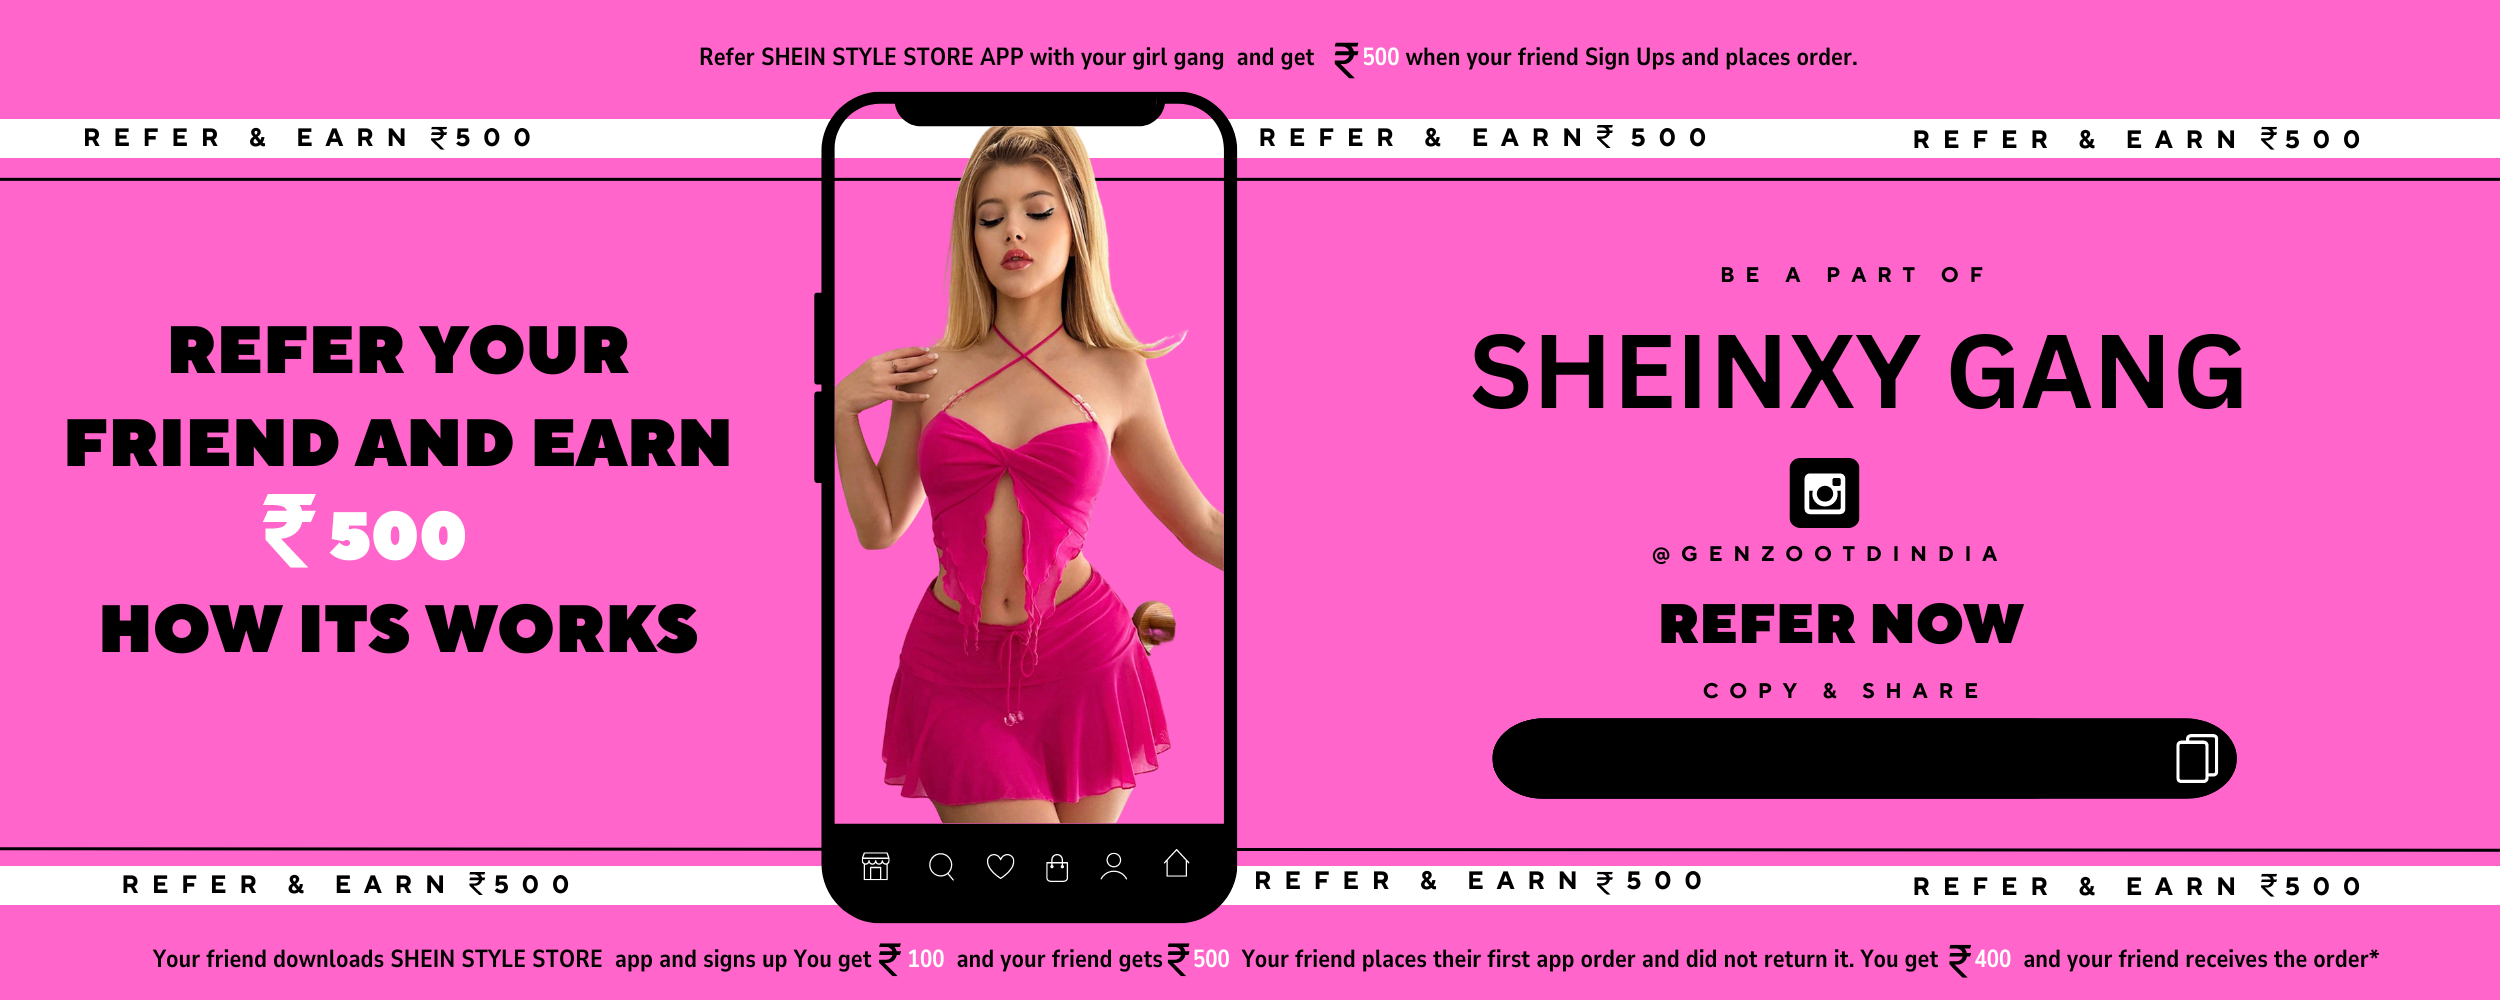
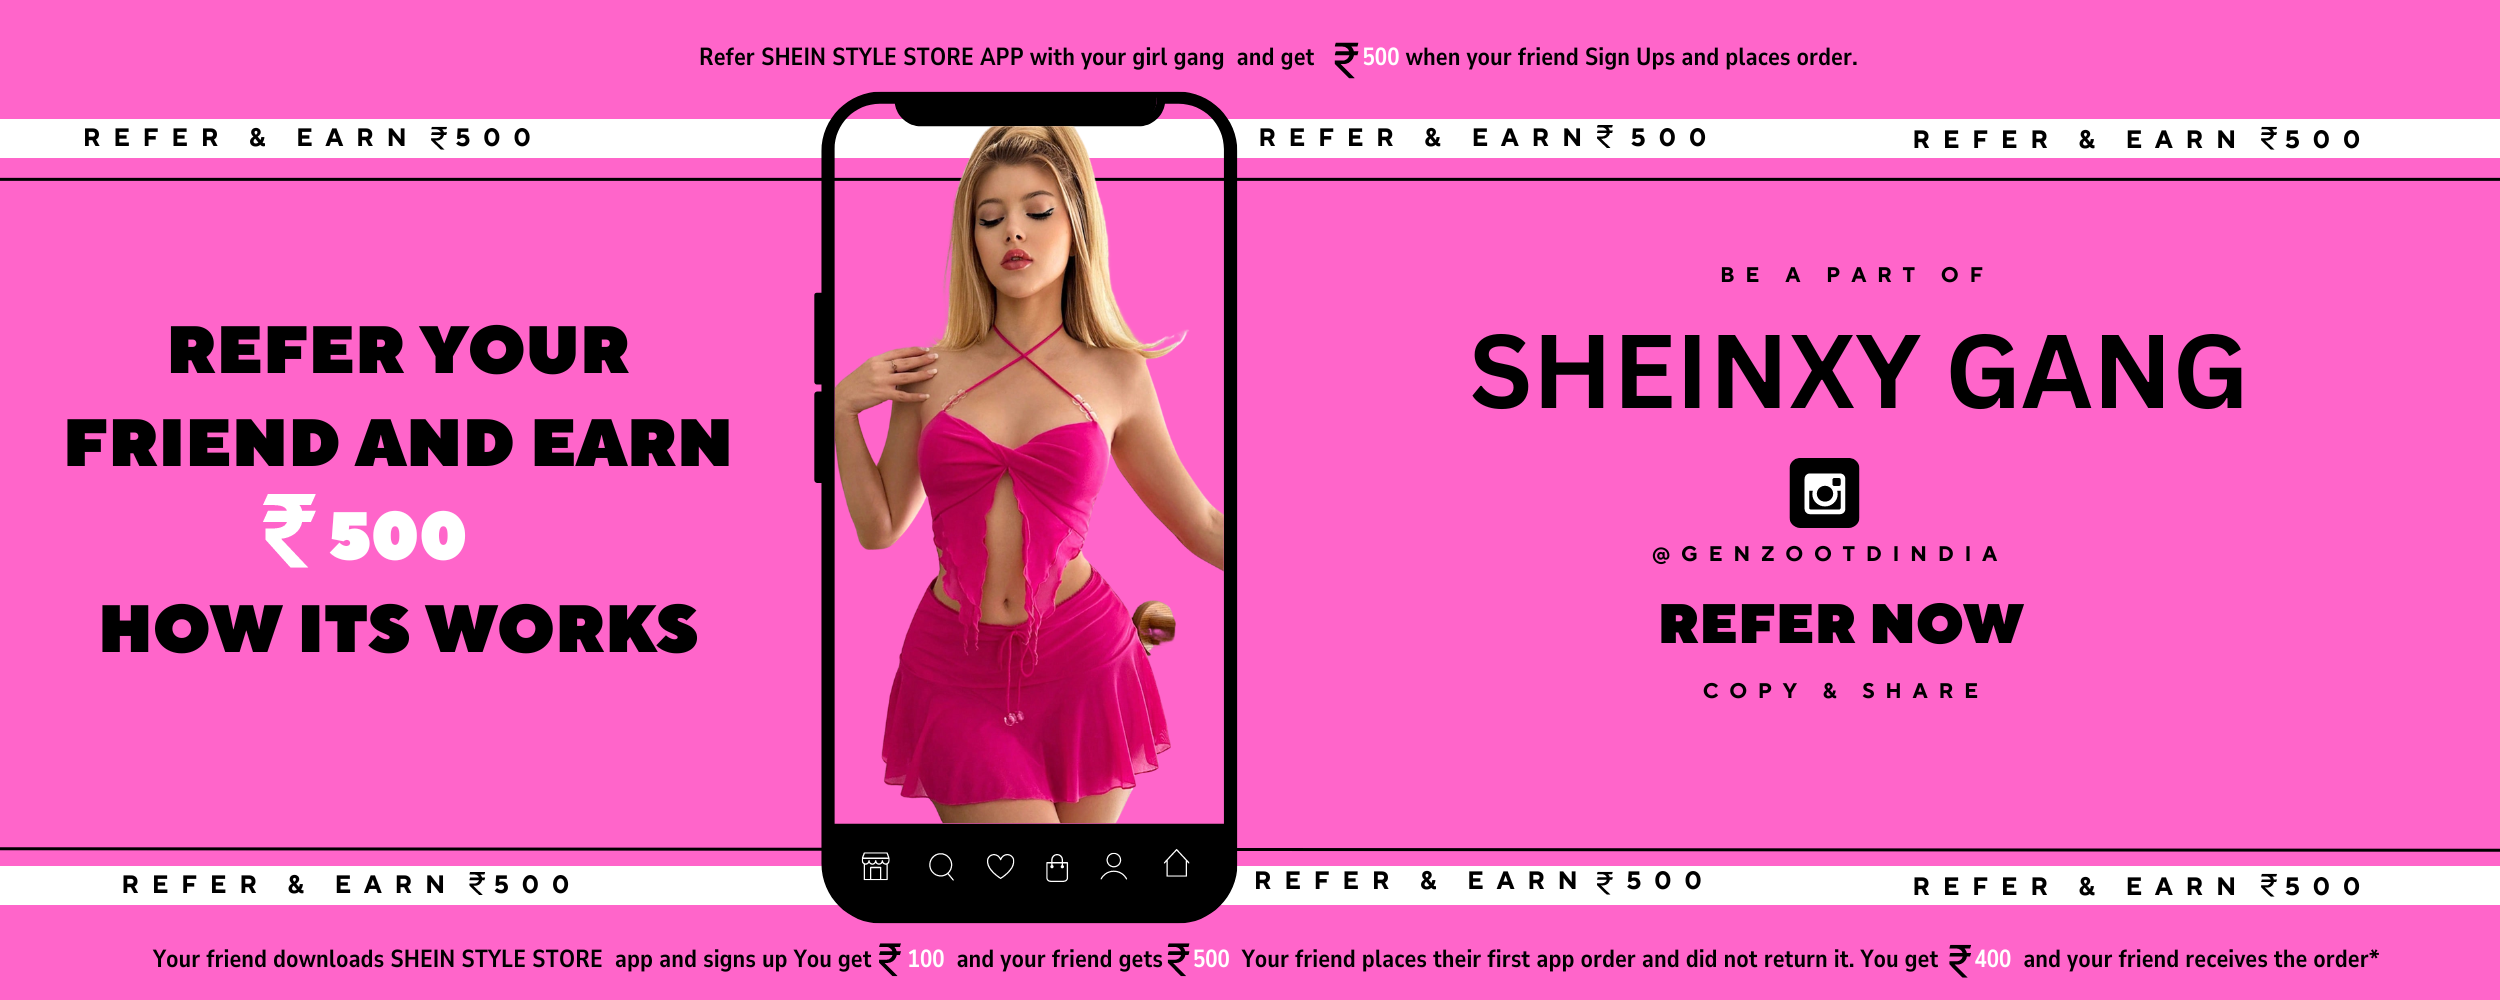
added the referral link

Changed region(s): [[0.5928, 0.713, 0.9048, 0.806]]

diff --git a/components/advertisement/Advertisement.tsx b/components/advertisement/Advertisement.tsx
@@ -1,24 +1,88 @@
 "use client";
-import React from "react";
+import React, { useState, useEffect } from "react";
 import Image from "next/image";
 // import advestisingImg from "../../images/Group 34289.png";
 import referandearn from "../../images/referandearn.png";
+import { ClipboardCheck, ClipboardCopy } from "lucide-react";
+import { getUserData } from "../../utils/databaseService";
+import { useQuery, useQueryClient } from "@tanstack/react-query";
+import { toast } from "react-toastify";
+import { getCookie } from "cookies-next";
+import { sha256 } from "js-sha256";
 
 const Advertisement = () => {
+  const [isClient, setIsClient] = useState(false);
+  const [inviteLink, setInviteLink] = useState(
+    "https://sheinidias.app.link/join/?ref=*****&"
+  );
+  // const websiteInviteLink = "https://sheinidias.app.link/join/?ref=*****&";
+  // let websiteInviteLink2 = "https://sheinidias.app.link/join/?ref=*****&";
+  const cookies = { value: getCookie("uid") };
+  const websiteInviteData = `Shein Style Store - Feeling empowered and confident in your own skin.\nShein Style Store Invite: ${inviteLink}`;
+  const [copied, setCopied] = useState(false);
+
+  useEffect(() => {
+    setIsClient(true);
+  }, []);
+
+  const { data: userData } = useQuery({
+    queryKey: ["userData"],
+    queryFn: () => getUserData(cookies),
+  });
+
+  useEffect(() => {
+    if (userData) {
+      const tstring = userData.id;
+      const sha = sha256(tstring).substring(0, 5);
+      const websiteInviteLink2 = `https://sheinidias.app.link/join/?ref=${sha}&`;
+      setInviteLink(websiteInviteLink2);
+    } else {
+      setInviteLink("https://sheinidias.app.link/join/?ref=*****&");
+    }
+  }, [userData]);
+
+  const InviteHandler = () => {
+    if (userData) {
+      setCopied(true);
+
+      navigator.clipboard.writeText(websiteInviteData);
+
+      setTimeout(() => {
+        setCopied(false);
+      }, 1500);
+      toast.success("Copied Successfully!");
+    } else {
+      toast.error("Login First!");
+    }
+  };
+
   return (
     <>
-      <div className=" w-full mt-0 px-[1.5%] relative">
-        {/* <div className="bottom-[20%] right-[20%] absolute text-white bg-black px-3 py-2 rounded-full">
-        https://shein-amber.vercel.app/
-        </div> */}
-        <Image
-          src={referandearn}
-          alt=""
-          width={1000}
-          height={1000}
-          className="object-cover w-full"
-        />
-      </div>
+      {isClient ? (
+        <div className=" w-full mt-0 relative">
+          <div className="bottom-[20%] right-[10%] absolute text-white bg-black md:px-2 md:w-[15rem] md:text-[0.5rem] lg:px-4 lg:w-[20rem]  lg:text-[0.6rem]  xl:text-lg xl:w-[30rem] xl:my-[0.7rem] rounded-full flex justify-between items-center px-1 text-[0.4rem] w-[10rem]">
+            <div>{inviteLink}</div>
+            <button onClick={InviteHandler}>
+              <div
+                className={`justify-center  items-center rounded sm:rounded-md md:rounded-lg py-0 sm:py-0.5 md:py-1 cursor-pointer text-center bg-black`}
+              >
+                <h2 className="text-sm sm:text-sm md:text-lg lg:text-3xl text-white ">
+                  {copied ? <ClipboardCheck /> : <ClipboardCopy />}
+                </h2>
+              </div>
+            </button>
+          </div>
+          <Image
+            src={referandearn}
+            alt=""
+            width={1000}
+            height={1000}
+            className="object-cover w-full"
+          />
+        </div>
+      ) : (
+        ""
+      )}
     </>
   );
 };
